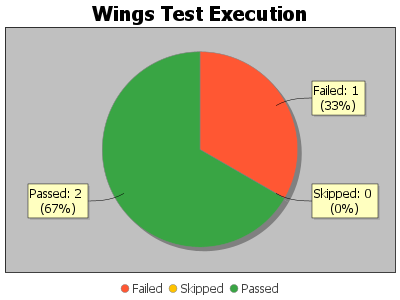
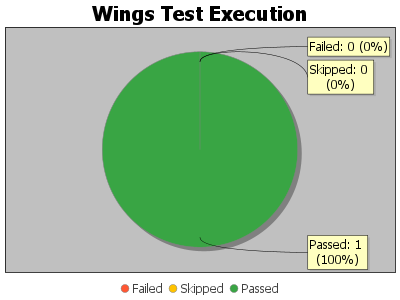
[Vikas]Updated transactions in the Finance and Production modules, along with their corresponding Excel files, and made modifications to a few classes

diff --git a/src/main/java/com/wings/pages/finance/transactions/Receipts/ReceiptsFromCreditCardCompanies.java b/src/main/java/com/wings/pages/finance/transactions/Receipts/ReceiptsFromCreditCardCompanies.java
@@ -81,20 +81,30 @@ public class ReceiptsFromCreditCardCompanies extends TransactionsBaseClass {
         Assert.assertNotEquals(newVoucherID, oldVoucherID,"Voucher Numbers are same. Check Transaction.");
         APIClient.validateAPIWithExcel(newVoucherID,tempAPIBodyUpdate,apiResponse,outputFile,"ReceiptsFromCreditCardCompanies");
 
-        deleteRecentTransaction();
-        navigateToMastersWhen3Steps("Finance","Receipts","Credit Card Receipts");
-        Thread.sleep(1500);
-        deleteRecentTransaction();
-        navigateToMastersWhen3Steps("Finance","Receipts","Bank Receipts");
-        Thread.sleep(1500);
-        deleteRecentTransaction();
-        navigateToMastersWhen3Steps("Finance","Receipts","Cash Receipts");
-        Thread.sleep(1500);
-        deleteRecentTransaction();
-        navigateToMastersWhen3Steps("Finance","Receipts","Receipts from Parties");
-        Thread.sleep(3000);
-        deleteRecentTransaction();
+        long deleteReceiptsVouchers =System.nanoTime();
+        deleteTransactionUsingVoucherNumber(newVoucherID);
+        deleteTransactionUsingVoucherNumber("PREC 4");
+        deleteTransactionUsingVoucherNumber("CR 3");
+        deleteTransactionUsingVoucherNumber("BR 5");
+        deleteTransactionUsingVoucherNumber("CCR 3");
+        deleteTransactionUsingVoucherNumber("RFCCC 3");
+        long AllReceiptsDeletions =System.nanoTime()- deleteReceiptsVouchers;
+        FileUtil.writeTimeLogInMinutes("Delete Voucher Of All Receipts:- ", AllReceiptsDeletions);
 
+
+//        deleteRecentTransaction();
+//        navigateToMastersWhen3Steps("Finance","Receipts","Credit Card Receipts");
+//        Thread.sleep(2000);
+//        deleteRecentTransaction();
+//        navigateToMastersWhen3Steps("Finance","Receipts","Bank Receipts");
+//        Thread.sleep(2000);
+//        deleteRecentTransaction();
+//        navigateToMastersWhen3Steps("Finance","Receipts","Cash Receipts");
+//        Thread.sleep(2000);
+//        deleteRecentTransaction();
+//        navigateToMastersWhen3Steps("Finance","Receipts","Receipts from Parties");
+//        Thread.sleep(3000);
+//        deleteRecentTransaction();
     }
 
     public void accounts() throws IOException, InterruptedException {

diff --git a/src/test/java/menuItems/Production/transactions/TestMaterialReturnsFromProduction.java b/src/test/java/menuItems/Production/transactions/TestMaterialReturnsFromProduction.java
@@ -39,14 +39,14 @@ public class TestMaterialReturnsFromProduction {
 
     @Test
     public void materialReturnsFromProduction() throws Exception {
-//        ProductOrders po = new ProductOrders(driver, file);
-//        String productionOrder=po.productOrders(TEMP_API_BODY_PRODUCTION_ORDERS,API_RESPONSE_PRODUCTION_ORDERS,OUTPUT_FILE);
-//
-//        appLogin.logout();
-//        driver= appLogin.login();
-//
-//        MaterialIssuesToProduction mifp = new MaterialIssuesToProduction(driver, file1);
-//        String materialIssuesToProduction=mifp.materialIssuesToProduction(productionOrder,TEMP_API_BODY_MATERIAL_ISSUES_PRODUCTION,API_RESPONSE_MATERIAL_ISSUES_PRODUCTION,OUTPUT_FILE1);
+        ProductOrders po = new ProductOrders(driver, file);
+        String productionOrder=po.productOrders(TEMP_API_BODY_PRODUCTION_ORDERS,API_RESPONSE_PRODUCTION_ORDERS,OUTPUT_FILE);
+
+        appLogin.logout();
+        driver= appLogin.login();
+
+        MaterialIssuesToProduction mifp = new MaterialIssuesToProduction(driver, file1);
+        String materialIssuesToProduction=mifp.materialIssuesToProduction(productionOrder,TEMP_API_BODY_MATERIAL_ISSUES_PRODUCTION,API_RESPONSE_MATERIAL_ISSUES_PRODUCTION,OUTPUT_FILE1);
 
         MaterialReturnsFromProduction materialReturnsFromProduction=new MaterialReturnsFromProduction(driver,file2);
         materialReturnsFromProduction.materialReturnsFromProduction("MITP2",TEMP_API_BODY_MATERIAL_RETURNS_FROM_PRODUCTION,API_RESPONSE_MATERIAL_RETURNS_FROM_PRODUCTION,OUTPUT_FILE2);

diff --git a/src/main/java/com/wings/pages/finance/transactions/PartyAdjustments/CreditNoteFromSupplier.java b/src/main/java/com/wings/pages/finance/transactions/PartyAdjustments/CreditNoteFromSupplier.java
@@ -92,7 +92,7 @@ public class CreditNoteFromSupplier extends TransactionsBaseClass {
         System.out.println("newID: "+newVoucherID);
         Assert.assertNotEquals(newVoucherID, oldVoucherID,"Voucher Numbers are same. Check Transaction.");
         APIClient.validateAPIWithExcel(newVoucherID,tempAPIBodyUpdate,apiResponse,outputFile,"CreditNoteFromSuppliers");
-        deleteRecentTransaction();
+        deleteTransactionUsingVoucherNumber(newVoucherID);
     }
 
     public void accounts() throws IOException, InterruptedException {
@@ -126,6 +126,7 @@ public class CreditNoteFromSupplier extends TransactionsBaseClass {
             enterListData(tdsTransNatureRowList.get(i), dataFile, "Accounts", "TDSTransactionNature",i);
             enterListData(tdsAccountRowList.get(i), dataFile, "Accounts", "TDSAccount",i);
             enterListData(tdsAmountRowList.get(i), dataFile, "Accounts", "TDSAmount",i);
+            Thread.sleep(1000);
             enterListData(departmentRowList.get(i), dataFile, "Accounts", "Department", i);
             enterListData(projectRowList.get(i), dataFile, "Accounts", "Project", i);
             enterListData(profitCentreRowList.get(i), dataFile, "Accounts", "ProfitCentre", i);

diff --git a/src/test/java/menuItems/purchase/transactions/TestPurchaseEnquiriesCancellation.java b/src/test/java/menuItems/purchase/transactions/TestPurchaseEnquiriesCancellation.java
@@ -35,14 +35,14 @@ public class TestPurchaseEnquiriesCancellation {
 
     @Test
     public void purchaseEnquiriesCancellation() throws Exception {
-        PurchaseEnquiries purchaseEnquiries = new PurchaseEnquiries(driver, dataFile);
-        String pe=purchaseEnquiries.purchaseEnquires(TEMP_API_BODY_PURCHASE_ENQUIRY,API_RESPONSE_PURCHASE_ENQUIRY,OUTPUT_FILE1);
-
-        appLogin.logout();
-        driver= appLogin.login();
+//        PurchaseEnquiries purchaseEnquiries = new PurchaseEnquiries(driver, dataFile);
+//        String pe=purchaseEnquiries.purchaseEnquires(TEMP_API_BODY_PURCHASE_ENQUIRY,API_RESPONSE_PURCHASE_ENQUIRY,OUTPUT_FILE1);
+//
+//        appLogin.logout();
+//        driver= appLogin.login();
 
         PurchaseEnquiriesCancellation pec = new PurchaseEnquiriesCancellation(driver, dataFile1);
-        pec.purchaseEnquiriesCancellation(pe,TEMP_API_BODY_PURCHASE_ENQUIRY_CANCELLATIONS,API_RESPONSE_PURCHASE_ENQUIRY_CANCELLATIONS,OUTPUT_FILE2);
+        pec.purchaseEnquiriesCancellation("PE 9",TEMP_API_BODY_PURCHASE_ENQUIRY_CANCELLATIONS,API_RESPONSE_PURCHASE_ENQUIRY_CANCELLATIONS,OUTPUT_FILE2);
     }
 
     @AfterTest

diff --git a/src/test/java/menuItems/sales/transactions/TestSalesReturnsWithInvoiceReference.java b/src/test/java/menuItems/sales/transactions/TestSalesReturnsWithInvoiceReference.java
@@ -43,16 +43,13 @@ public class TestSalesReturnsWithInvoiceReference {
 //        driver= appLogin.login();
 
         SalesReturnWithInvoiceReference salesRWIR =new SalesReturnWithInvoiceReference(driver,dataFile1);
-        salesRWIR.salesReturnWithInvoiceReference("SI 24",TEMP_API_BODY_SRWIR,API_RESPONSE_SRWIR,OUTPUT_FILE2);
+        String salesReturns=salesRWIR.salesReturnWithInvoiceReference("SI 24",TEMP_API_BODY_SRWIR,API_RESPONSE_SRWIR,OUTPUT_FILE2);
+        Transaction transaction=new Transaction(driver);
+        transaction.deleteTransactionUsingVoucherNumber(salesReturns);
     }
 
     @AfterTest
     public void afterTest() throws IOException, InterruptedException {
-//        TransactionsBaseClass transactionsBaseClass=new TransactionsBaseClass(driver);
-//        Transaction transaction=new Transaction(driver);
-//        transaction.navigateToMastersWhen3Steps("Sales","Invoices","Sales Return with Invoice Reference");
-//        Thread.sleep(1000);
-//        transactionsBaseClass.deleteRecentTransaction();
         appLogin.logout();
     }
 

diff --git a/src/test/java/menuItems/sales/transactions/TestSalesReturn.java b/src/test/java/menuItems/sales/transactions/TestSalesReturn.java
@@ -43,16 +43,14 @@ public class TestSalesReturn {
 //        driver= appLogin.login();
 
         SalesReturns salesReturns = new SalesReturns(driver, dataFile1);
-        salesReturns.salesReturns("SI 23",TEMP_API_BODY_SALES_RETURNS,API_RESPONSE_SALES_RETURNS,OUTPUT_FILE2);
+        String returns=salesReturns.salesReturns("SI 23",TEMP_API_BODY_SALES_RETURNS,API_RESPONSE_SALES_RETURNS,OUTPUT_FILE2);
+        Transaction transaction=new Transaction(driver);
+        transaction.deleteTransactionUsingVoucherNumber(returns);
     }
 
     @AfterTest
     public void afterTest() throws IOException, InterruptedException {
-//        TransactionsBaseClass transactionsBaseClass=new TransactionsBaseClass(driver);
-//        Transaction transaction=new Transaction(driver);
-//        transaction.navigateToMastersWhen3Steps("Sales","Invoices","Sales Returns");
-//        Thread.sleep(1000);
-//        transactionsBaseClass.deleteRecentTransaction();
+
         appLogin.logout();
     }
 }

diff --git a/src/test/java/menuItems/sales/transactions/TestSalesEnquiry.java b/src/test/java/menuItems/sales/transactions/TestSalesEnquiry.java
@@ -1,6 +1,7 @@
 package menuItems.sales.transactions;
 
 import com.wings.pages.AppLogin;
+import com.wings.pages.Transaction;
 import com.wings.pages.sales.transactions.SalesEnquiry;
 import io.appium.java_client.windows.WindowsDriver;
 import org.json.simple.parser.ParseException;
@@ -28,12 +29,13 @@ public class TestSalesEnquiry {
     @Test
     public void SalesEnquiryTransaction() throws Exception {
         SalesEnquiry sales = new SalesEnquiry(driver, file);
-        sales.salesEnquiries(TEMP_API_BODY_SALES_ENQUIRY,API_RESPONSE_SALES_ENQUIRY,OUTPUT_FILE);
+        String se=sales.salesEnquiries(TEMP_API_BODY_SALES_ENQUIRY,API_RESPONSE_SALES_ENQUIRY,OUTPUT_FILE);
+        Transaction transaction=new Transaction(driver);
+        transaction.deleteTransactionUsingVoucherNumber(se);
     }
 
     @AfterTest
     public void afterTest() throws IOException {
         appLogin.logout();
     }
-
 }

diff --git a/src/test/java/menuItems/sales/transactions/TestSalesInvoice.java b/src/test/java/menuItems/sales/transactions/TestSalesInvoice.java
@@ -1,6 +1,7 @@
 package menuItems.sales.transactions;
 
 import com.wings.pages.AppLogin;
+import com.wings.pages.Transaction;
 import com.wings.pages.sales.transactions.SalesInvoice;
 import io.appium.java_client.windows.WindowsDriver;
 import org.json.simple.parser.ParseException;
@@ -27,7 +28,9 @@ public class TestSalesInvoice {
     @Test
     public void salesInvoice() throws Exception {
         SalesInvoice invoice = new SalesInvoice(driver, dataFile);
-        invoice.salesInvoice(TEMP_API_BODY_SALES_INVOICES,API_RESPONSE_SALES_SALES_INVOICES,OUTPUT_FILE);
+        String SI=invoice.salesInvoice(TEMP_API_BODY_SALES_INVOICES,API_RESPONSE_SALES_SALES_INVOICES,OUTPUT_FILE);
+        Transaction transaction=new Transaction(driver);
+        transaction.deleteTransactionUsingVoucherNumber(SI);
     }
 
     @AfterTest

diff --git a/src/main/java/com/wings/pages/finance/transactions/Journals/JournalEntries.java b/src/main/java/com/wings/pages/finance/transactions/Journals/JournalEntries.java
@@ -44,16 +44,15 @@ public class JournalEntries extends TransactionsBaseClass {
         otherInfo();
         addAllocations();
 
-
         transactionSave();
         String newVoucherID =newTransactionID(oldVoucherID);
         System.out.println("newID: "+newVoucherID);
         Assert.assertNotEquals(newVoucherID, oldVoucherID,"Voucher Numbers are same. Check Transaction.");
         APIClient.validateAPIWithExcel(newVoucherID,tempAPIBodyUpdate,apiResponse,outputFile,"JournalEntries");
 
-        deleteRecentTransaction();
         long JeEnd = System.nanoTime() -start ;
         FileUtil.writeTimeLogInMinutes("Journal Entries ended at:- ", JeEnd );
+        deleteTransactionUsingVoucherNumber(newVoucherID);
     }
 
     public void accounts() throws IOException {

diff --git a/src/main/java/com/wings/pages/sales/transactions/SalesEnquiryCancellation.java b/src/main/java/com/wings/pages/sales/transactions/SalesEnquiryCancellation.java
@@ -73,9 +73,9 @@ public class SalesEnquiryCancellation extends TransactionsBaseClass {
         System.out.println("newID: " + newVoucherID);
         Assert.assertNotEquals(newVoucherID, oldVoucherID, "Voucher Numbers are same. Check Transaction.");
         Thread.sleep(1000);
-//        exportIOFiles(newVoucherID,rootDriver);
         APIClient.validateAPIWithExcel(newVoucherID,tempAPIBodyUpdate,apiResponse,outputFile, "SalesEnquiriesCancellations");
 
+        deleteTransactionUsingVoucherNumber(newVoucherID);
         long salesEnquiriesCancellationEnd = System.nanoTime() - salesEnquiriesCancellationStart;
         FileUtil.writeTimeLogInMinutes("Sales EnquiriesCancellation ended at:- ", salesEnquiriesCancellationEnd );
     }

diff --git a/src/main/java/com/wings/pages/finance/transactions/Journals/BookIncomesOrReceivables.java b/src/main/java/com/wings/pages/finance/transactions/Journals/BookIncomesOrReceivables.java
@@ -93,7 +93,9 @@ public class BookIncomesOrReceivables extends TransactionsBaseClass {
         System.out.println("newID: "+newVoucherID);
         Assert.assertNotEquals(newVoucherID, oldVoucherID,"Voucher Numbers are same. Check Transaction.");
         APIClient.validateAPIWithExcel(newVoucherID,tempAPIBodyUpdate,apiResponse,outputFile,"BookIncomesOrReceivable");
-        deleteRecentTransaction();
+        deleteTransactionUsingVoucherNumber(newVoucherID);
+        deleteTransactionUsingVoucherNumber("DNFS 2");
+        deleteTransactionUsingVoucherNumber("DNFS 3");
     }
 
     public void accounts() throws IOException, InterruptedException {

diff --git a/src/main/java/com/wings/pages/finance/transactions/Journals/JournalEntriesComplex.java b/src/main/java/com/wings/pages/finance/transactions/Journals/JournalEntriesComplex.java
@@ -50,9 +50,9 @@ public class JournalEntriesComplex extends TransactionsBaseClass {
         Assert.assertNotEquals(newVoucherID, oldVoucherID,"Voucher Numbers are same. Check Transaction.");
         APIClient.validateAPIWithExcel(newVoucherID,tempAPIBodyUpdate,apiResponse,outputFile,"JournalEntriesComplex");
 
-        deleteRecentTransaction();
         long JeEnd = System.nanoTime() -start ;
         FileUtil.writeTimeLogInMinutes("Journal Entries ended at:- ", JeEnd );
+        deleteTransactionUsingVoucherNumber(newVoucherID);
     }
 
     public void accounts() throws IOException {
